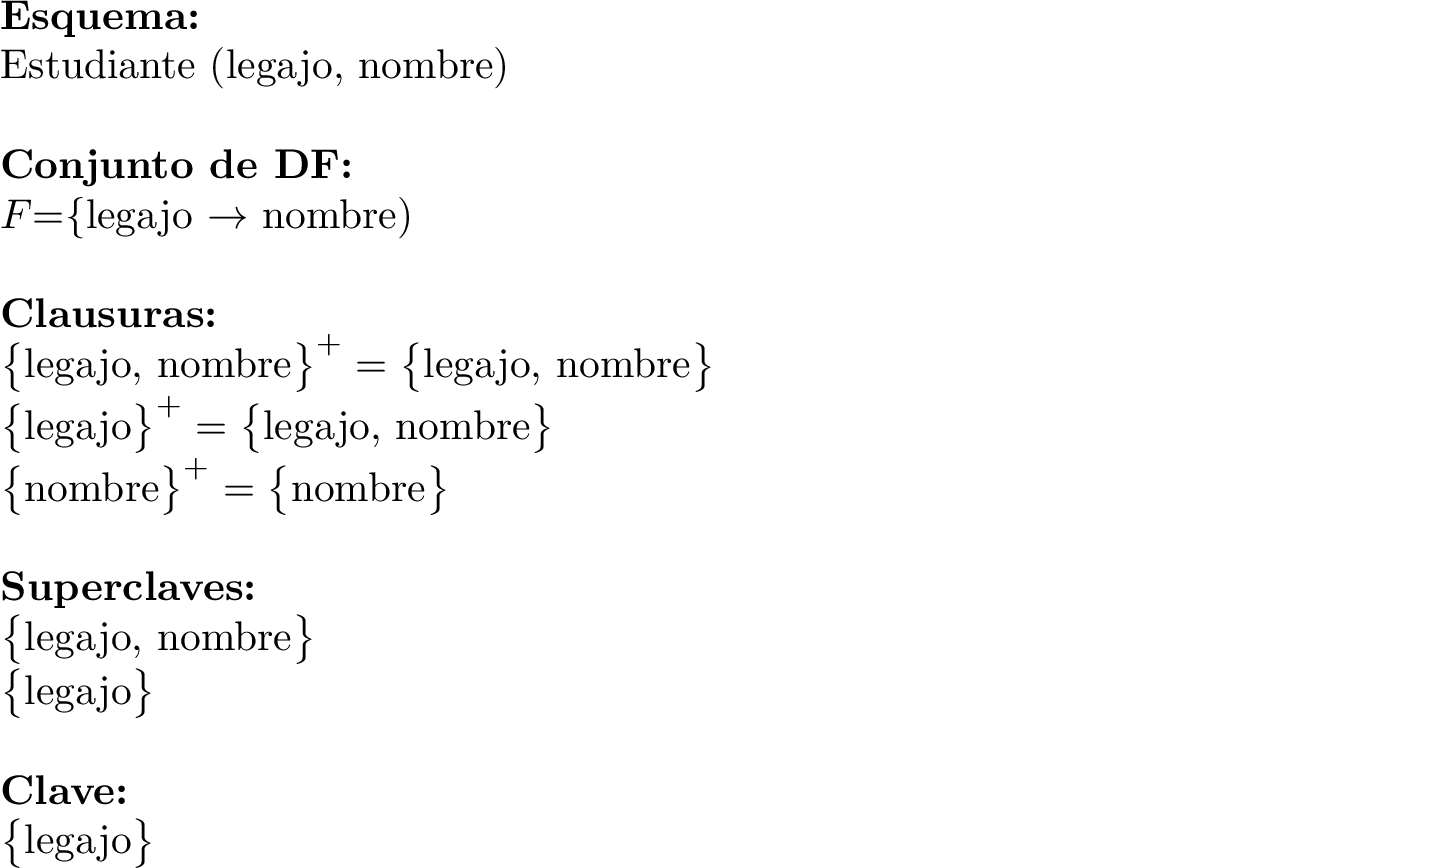
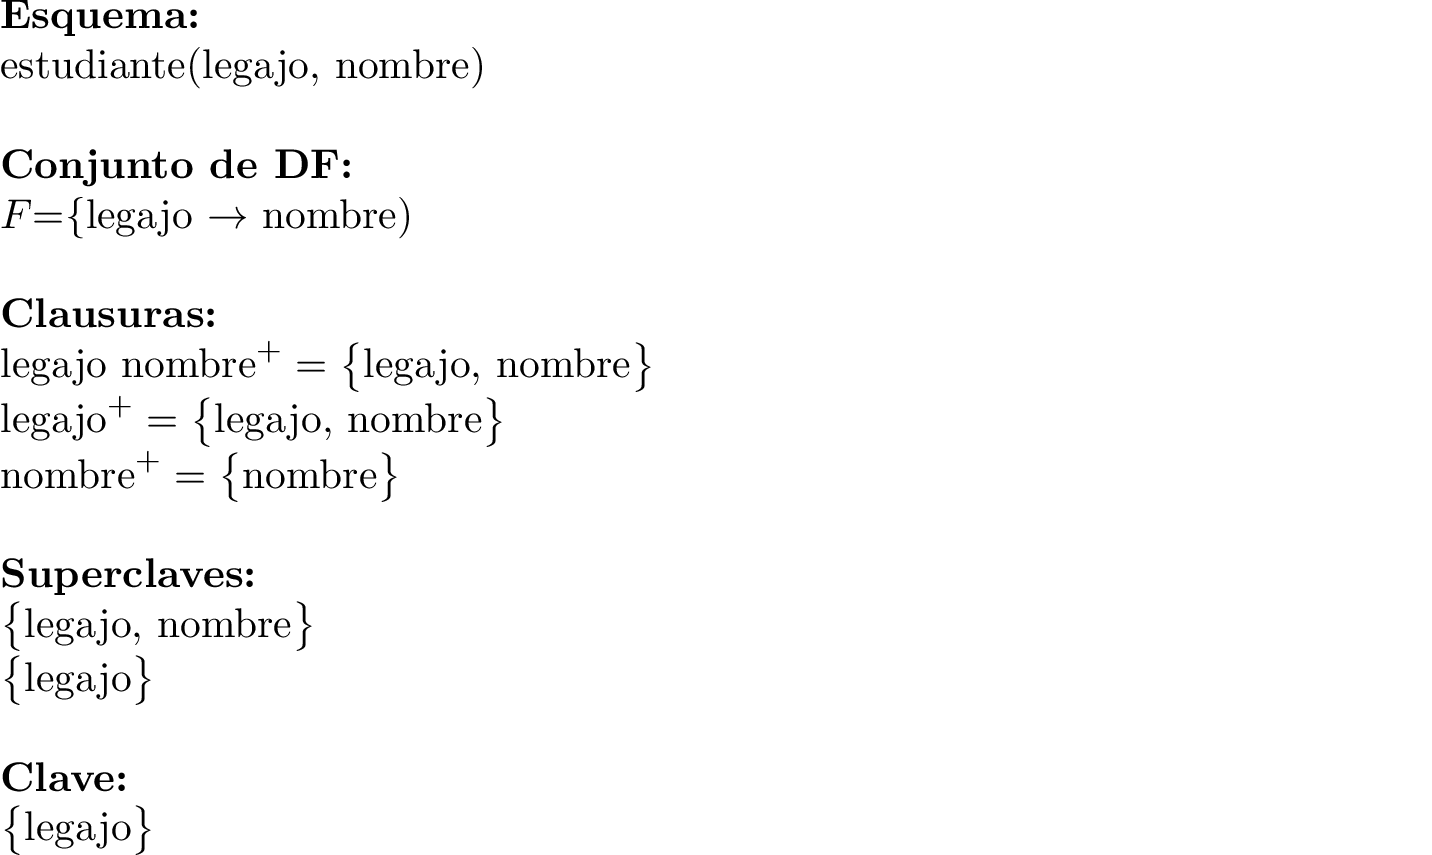
Fix case in schema and less parens
e.g.: Estudiante → estudiante

y se pueden `ahorrar' algunos parentesis en los conjuntos de
dependencias funcionales usando espacios, e.g.:

(legajo, nombre) → (legajo),…
legajo nombre → legajo,…

diff --git a/present/context/df-cubrimiento-minimal-ejemplo.tex b/present/context/df-cubrimiento-minimal-ejemplo.tex
@@ -1,20 +1,21 @@
+\pdfoutput=1
 \documentclass[preview]{standalone}
 
 \begin{document}
-$R=(A,B,C,D)$\\
-$F=\big\{(A\rightarrow BD), (B\rightarrow C), (C\rightarrow D), (BC\rightarrow D)\big\}$\\
+$R(A,B,C,D)$\\
+$F=\big\{A\rightarrow BD,\ B\rightarrow C,\ C\rightarrow D,\ BC\rightarrow D\big\}$\\
 
 \textbf{(1) Aplico descomposici\'on}\\
-$\big\{(A\rightarrow B), (A\rightarrow D), (B\rightarrow C), (C\rightarrow D), (BC\rightarrow D)\big\}$\\
+$\big\{A\rightarrow B,\ A\rightarrow D,\ B\rightarrow C,\ C\rightarrow D,\ BC\rightarrow D\big\}$\\
 
-\textbf{(2) $B$ es redundante en $(BC\rightarrow D)$}\\
-$\big\{(A\rightarrow B), (A\rightarrow D), (B\rightarrow C), (C\rightarrow D), (C\rightarrow D)\big\}$\\
+\textbf{(2) $B$ es redundante en $BC\rightarrow D$}\\
+$\big\{A\rightarrow B,\ A\rightarrow D,\ B\rightarrow C,\ C\rightarrow D,\ C\rightarrow D\big\}$\\
 
-\textbf{(3) Aparece dos veces $(C\rightarrow D)$}\\
-$\big\{(A\rightarrow B), (A\rightarrow D), (B\rightarrow C), (C\rightarrow D)\big\}$\\
+\textbf{(3) Aparece dos veces $C\rightarrow D$}\\
+$\big\{A\rightarrow B,\ A\rightarrow D,\ B\rightarrow C,\ C\rightarrow D\big\}$\\
 
-\textbf{(4) $(A\rightarrow D)$ es redundante}\\
-$\big\{(A\rightarrow B), (B\rightarrow C), (C\rightarrow D)\big\}$\\
+\textbf{(4) $A\rightarrow D$ es redundante}\\
+$\big\{A\rightarrow B,\ B\rightarrow C,\ C\rightarrow D\big\}$\\
 
-$F_m=\big\{(A\rightarrow B), (B\rightarrow C), (C\rightarrow D)\big\}$
+$F_m=\big\{A\rightarrow B,\ B\rightarrow C,\ C\rightarrow D\big\}$
 \end{document}

diff --git a/present/context/df-clausura-df-ejemplo-2.tex b/present/context/df-clausura-df-ejemplo-2.tex
@@ -1,15 +1,16 @@
+\pdfoutput=1
 \documentclass[preview]{standalone}
 
 \usepackage{amsmath}
 
 \begin{document}
-Estudiante (legajo, nombre)\\
+estudiante(legajo, nombre)\\
 $F$=\{legajo $\rightarrow$ nombre)\\
 
 \textbf{?`Qu\'e conjunto es $F^+$?}\\
 \begin{align*}
-F^+ = \big\{ & (\text{legajo} \rightarrow \text{nombre}), (\text{legajo} \rightarrow \text{legajo}), (\text{nombre} \rightarrow \text{nombre}),\\
- & (\text{legajo, nombre} \rightarrow \text{legajo}), (\text{legajo, nombre} \rightarrow \text{nombre}),\\  
- & (\text{legajo} \rightarrow \text{nombre, legajo})\big\}   
+	F^+ = \big\{ & \text{legajo} \rightarrow \text{nombre},\ \text{legajo} \rightarrow \text{legajo},\ \text{nombre} \rightarrow \text{nombre},\\
+ & \text{legajo nombre} \rightarrow \text{legajo},\ \text{legajo nombre} \rightarrow \text{nombre},\\  
+ & \text{legajo} \rightarrow \text{nombre legajo}\big\}   
 \end{align*}
 \end{document}

diff --git a/present/context/df-clausura-atributos-ejemplo-2.tex b/present/context/df-clausura-atributos-ejemplo-2.tex
@@ -1,8 +1,11 @@
+\pdfoutput=1
 \documentclass[preview]{standalone}
+
+\usepackage{mathtools}
 
 \begin{document}
 \textbf{Esquema:}\\
-Cursada (legajo\_est, nom\_est, materia, fecha\_inscripcion, fecha\_examen, nota)\\
+cursada(legajo\_est, nom\_est, materia, fecha\_inscripcion, fecha\_examen, nota)\\
 
 \textbf{Dependencias funcionales:}\\
 legajo\_est $\rightarrow$ nom\_est\\
@@ -10,6 +13,6 @@ legajo\_est, materia $\rightarrow$ fecha\_inscripcion\\
 legajo\_est, materia, fecha\_examen $\rightarrow$ nota\\
 
 \textbf{Clausuras:}\\
-$\big\{$ legajo\_est $\big\}^+ = \big\{$ legajo\_es, nom\_est$\big\}$\\
-$\big\{$ legajo\_est, materia $\big\}^+ = \big\{$ legajo\_es, materia, nom\_est, fecha\_inscripcion$\big\}$\\
+$\text{legajo\_est}^+ = \big\{$legajo\_es, nom\_est$\big\}$\\
+$\text{legajo\_est materia}^+ = \big\{$legajo\_es, materia, nom\_est, fecha\_inscripcion$\big\}$\\
 \end{document}

diff --git a/present/context/df-clausura-atributos-ejemplo.tex b/present/context/df-clausura-atributos-ejemplo.tex
@@ -1,8 +1,11 @@
+\pdfoutput=1
 \documentclass[preview]{standalone}
+
+\usepackage{mathtools}
 
 \begin{document}
 \textbf{Esquema:}\\
-Cursada (legajo\_est, nom\_est, materia, fecha\_inscripcion, fecha\_examen, nota)\\
+cursada(legajo\_est, nom\_est, materia, fecha\_inscripcion, fecha\_examen, nota)\\
 
 \textbf{Dependencias funcionales:}\\
 legajo\_est $\rightarrow$ nom\_est\\
@@ -10,6 +13,6 @@ legajo\_est, materia $\rightarrow$ fecha\_inscripcion\\
 legajo\_est, materia, fecha\_examen $\rightarrow$ nota\\
 
 \textbf{Clausuras:}\\
-$\big\{$ legajo\_est $\big\}^+ = \big\{\dots$\\
-$\big\{$ legajo\_est, materia $\big\}^+ = \big\{\dots$
+$\text{legajo\_est}^+ = \big\{\dots$\\
+$\text{legajo\_est materia}^+ = \big\{\dots$
 \end{document}

diff --git a/present/context/df-superclaves-claves-ejemplo-2.tex b/present/context/df-superclaves-claves-ejemplo-2.tex
@@ -1,18 +1,19 @@
+\pdfoutput=1
 \documentclass[preview]{standalone}
 
 \usepackage{amsmath}
 
 \begin{document}
 \textbf{Esquema:}\\
-Estudiante (legajo, nombre)\\
+estudiante(legajo, nombre)\\
 
 \textbf{Conjunto de DF:}\\
 $F$=\{legajo $\rightarrow$ nombre)\\
 
 \textbf{Clausuras:}\\
-$\big\{\text{legajo, nombre}\big\}^+ =\big\{\text{legajo, nombre}\big\}$\\
-$\big\{\text{legajo}\big\}^+ = \big\{\text{legajo, nombre}\big\}$\\
-$\big\{\text{nombre}\big\}^+ = \big\{\text{nombre}\big\}$\\
+$\text{legajo nombre}^+ =\big\{\text{legajo, nombre}\big\}$\\
+$\text{legajo}^+ = \big\{\text{legajo, nombre}\big\}$\\
+$\text{nombre}^+ = \big\{\text{nombre}\big\}$\\
 
 \textbf{Superclaves: } \\
 $\big\{\text{legajo, nombre}\big\}$\\ 

diff --git a/present/context/df-superclaves-claves-ejemplo.tex b/present/context/df-superclaves-claves-ejemplo.tex
@@ -1,18 +1,20 @@
+\pdfoutput=1
 \documentclass[preview]{standalone}
 
 \usepackage{amsmath}
+\usepackage{mathtools}
 
 \begin{document}
 \textbf{Esquema:}\\
-Estudiante (legajo, nombre)\\
+estudiante(legajo, nombre)\\
 
 \textbf{Conjunto de DF:}\\
 $F$=\{legajo $\rightarrow$ nombre)\\
 
 \textbf{Clausuras:}\\
-$\big\{\text{legajo, nombre}\big\}^+ = \big\{\dots$\\
-$\big\{\text{legajo}\big\}^+ = \big\{\dots$\\
-$\big\{\text{nombre}\big\}^+ = \big\{\dots$\\
+$\text{legajo nombre}^+ = \big\{\dots$\\
+$\text{legajo}^+ = \big\{\dots$\\
+$\text{nombre}^+ = \big\{\dots$\\
 
 \textbf{Superclave(s):}\\
 $\dots$\\

diff --git a/present/context/df-equivalencia-df-ejemplo.tex b/present/context/df-equivalencia-df-ejemplo.tex
@@ -1,8 +1,9 @@
+\pdfoutput=1
 \documentclass[preview]{standalone}
 
 \begin{document}
 $R = (A,B,C)$\\
 
-$F = \big\{A\rightarrow B, B\rightarrow C, C\rightarrow A\big\}$\\
-$G = \big\{C\rightarrow B, B\rightarrow A, A\rightarrow C\big\}$
+$F = \big\{A\rightarrow B,\ B\rightarrow C,\ C\rightarrow A\big\}$\\
+$G = \big\{C\rightarrow B,\ B\rightarrow A,\ A\rightarrow C\big\}$
 \end{document}

diff --git a/present/context/df-definicion-ejemplo.tex b/present/context/df-definicion-ejemplo.tex
@@ -1,10 +1,11 @@
+\pdfoutput=1
 \documentclass[preview]{standalone}
 
 \usepackage{amssymb}
 
 \begin{document}
 \textbf{Esquema:}\\
-Cursada (legajo\_est, nom\_est, materia, fecha\_inscripcion, fecha\_examen, nota)\\
+cursada(legajo\_est, nom\_est, materia, fecha\_inscripcion, fecha\_examen, nota)\\
 
 \textbf{Dependencias funcionales:}\\
 legajo\_est $\rightarrow$ nom\_est\\

diff --git a/present/context/df-inferencia-ejemplo.tex b/present/context/df-inferencia-ejemplo.tex
@@ -1,8 +1,9 @@
+\pdfoutput=1
 \documentclass[preview]{standalone}
 
 \begin{document}
 \textbf{Esquema:}\\
-Cursada (legajo\_est, nom\_est, materia, fecha\_inscripcion, fecha\_examen, nota)\\
+cursada(legajo\_est, nom\_est, materia, fecha\_inscripcion, fecha\_examen, nota)\\
 
 \textbf{Dependencias funcionales:}\\
 legajo\_est $\rightarrow$ nom\_est\\

diff --git a/present/context/df-regla-falsa-contraejemplo.tex b/present/context/df-regla-falsa-contraejemplo.tex
@@ -1,8 +1,9 @@
+\pdfoutput=1
 \documentclass[preview]{standalone}
 
 \begin{document}
 \textbf{Esquema:}\\
-Cliente (nro\_cliente, telefono, nombre)\\
+cliente(nro\_cliente, telefono, nombre)\\
 
 \textbf{Dependencias funcionales:}\\
 nro\_cliente $\rightarrow$ nombre\\

diff --git a/present/context/df-clausura-df-ejemplo.tex b/present/context/df-clausura-df-ejemplo.tex
@@ -1,7 +1,8 @@
+\pdfoutput=1
 \documentclass[preview]{standalone}
 
 \begin{document}
-Estudiante (legajo, nombre)\\
+estudiante(legajo, nombre)\\
 $F$=\{legajo $\rightarrow$ nombre)\\
 
 \textbf{?`Qu\'e conjunto es $F^+$?}\\
